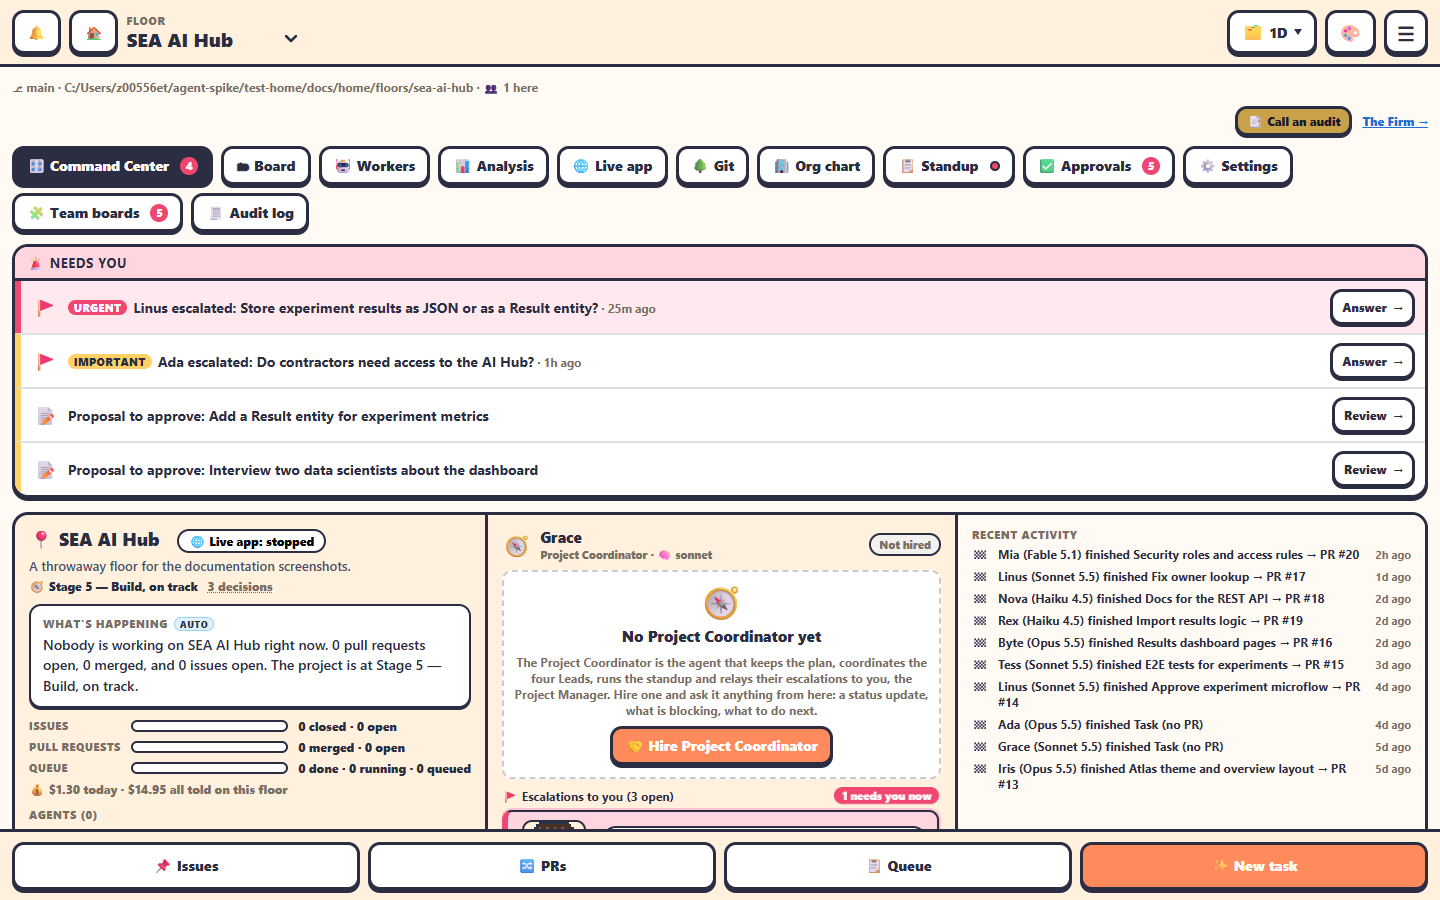
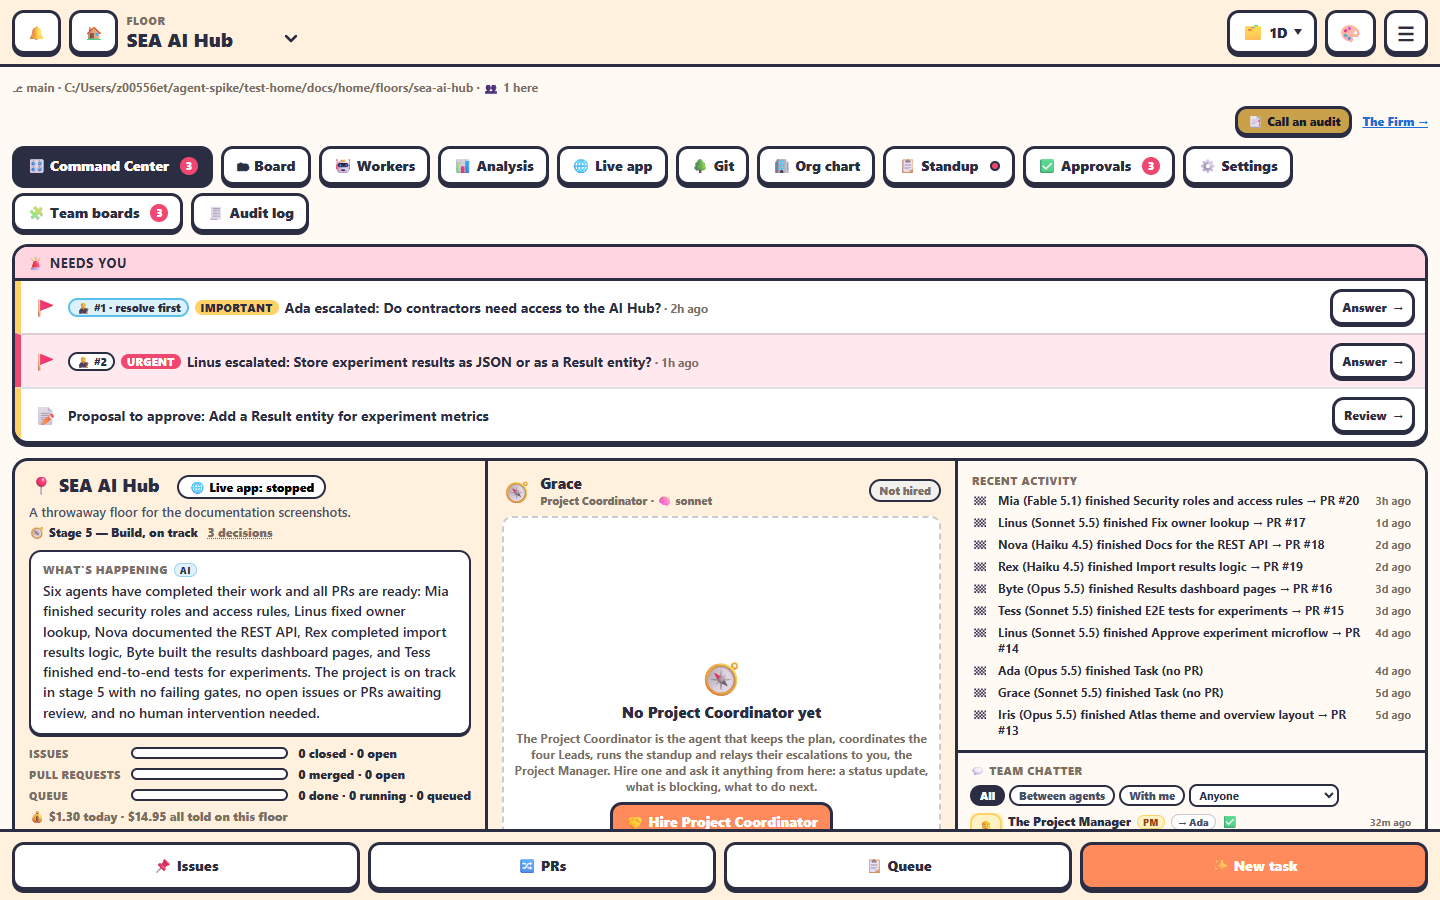
Docs: Team chatter documented; CHANGELOG lists the docs site; fresh Command Center pictures
- Command Center: the 💬 Team chatter thread (what shows up, filters, live, kept per floor),
  team pages' short version, /api/chatter, chatter/ in data locations, glossary, tour and FAQ
- no longer "coming": only the Clean themes are still upcoming
- CHANGELOG.md Unreleased: 📚 Documentation at /docs (the Release notes page is this file)
- command-center.png and escalations.png retaken on a test office: chatter panel, Jeff's chips
- READMEs mention Team chatter

Changed region(s): [[0.0, 0.4667, 1.0, 0.9333], [0.0, 0.3111, 0.5, 0.4356]]

diff --git a/README.html b/README.html
@@ -129,7 +129,7 @@
     <div class="chips">
       <span class="chip">🏢 Projects = floors</span><span class="chip">🧭 A team per project</span><span class="chip">🛠 Mendix via mxcli</span>
       <span class="chip">✅ CI on every PR</span><span class="chip">🌐 Live app</span><span class="chip">🎛 Command Center</span>
-      <span class="chip">🧑⚖ Jeff · Router</span><span class="chip">🏛 The Firm</span><span class="chip">🧾 Audit log</span>
+      <span class="chip">🧑⚖ Jeff · Router</span><span class="chip">🏛 The Firm</span><span class="chip">🧾 Audit log</span><span class="chip">💬 Team chatter</span>
     </div>
     <div class="hero-links">
       <a href="http://127.0.0.1:4600/docs">📚 Full documentation at /docs</a>
@@ -418,7 +418,7 @@
   <h3>Inside a project</h3>
   <div class="tablewrap"><table>
     <tr><th style="width:190px">Tab</th><th>What it's for</th></tr>
-    <tr><td><b>🎛 Command Center</b> <small style="color:var(--muted)">default</small></td><td><b>🚨 Needs you</b> (everything blocked on you, one button each) · the 🧰 Project setup panel (stages P–4, ✋ gates) · project summary and "What's happening" · the <b>Project Coordinator console</b> (live terminal, prompt box, quick chips) · <b>🚩 Escalations to you</b>: the agent's portrait and speech bubble, Jeff's <i>#1 · resolve first</i> chip, Reply / Approve / Reject · The Firm strip.</td></tr>
+    <tr><td><b>🎛 Command Center</b> <small style="color:var(--muted)">default</small></td><td><b>🚨 Needs you</b> (everything blocked on you, one button each) · the 🧰 Project setup panel (stages P–4, ✋ gates) · project summary and "What's happening" · the <b>Project Coordinator console</b> (live terminal, prompt box, quick chips) · <b>🚩 Escalations to you</b>: the agent's portrait and speech bubble, Jeff's <i>#1 · resolve first</i> chip, Reply / Approve / Reject · <b>💬 Team chatter</b>: what the agents say to each other, live, filterable (All, Between agents, With me, one person) · The Firm strip.</td></tr>
     <tr><td><b>🗂 Board</b></td><td>Just the Kanban, with team filter chips and hover previews (live terminals for agents, scorecard and screenshots for PRs).</td></tr>
     <tr><td><b>🤖 Workers</b></td><td>Every agent on the floor, the ones waiting on you first, each <b>ranked A–F</b> (model benchmark, delivery, autonomy, token efficiency, plus specialist duties for team roles).</td></tr>
     <tr><td><b>📊 Analysis</b></td><td>Which model does well on which kind of task, with cost, time and quality; Jeff · Router's verdicts against the office's rules.</td></tr>
@@ -449,7 +449,7 @@
   <h2><span class="num">★</span>Gallery</h2>
   <p class="sub">From a throwaway test office. Click a picture to see it full size; every screen is explained in <code>/docs</code>.</p>
   <div class="gallery">
-    <figure><img src="docs/site/images/escalations.png" alt="Escalation cards with the agent's portrait and a speech bubble"><figcaption><span class="tag">Command Center</span><br><b>🚩 Escalations to you</b>: who's asking, in a speech bubble, with the options and a recommendation.</figcaption></figure>
+    <figure><img src="docs/site/images/escalations.png" alt="Escalation cards with the agent's portrait and a speech bubble"><figcaption><span class="tag">Command Center</span><br><b>🚩 Escalations to you</b>: who's asking, in a speech bubble, in Jeff's order (#1 · resolve first).</figcaption></figure>
     <figure><img src="docs/site/images/workers-ranking.png" alt="Workers tab with A to F grades"><figcaption><span class="tag">Workers</span><br><b>🏅 Rankings</b>: every agent graded A–F, with evidence.</figcaption></figure>
     <figure><img src="docs/site/images/git-map.png" alt="Git tab branch railway map"><figcaption><span class="tag">Git</span><br><b>🌳 Branch map</b>: branches, PRs and who's on them.</figcaption></figure>
     <figure><img src="docs/site/images/skills.png" alt="Skills panel of a Lead"><figcaption><span class="tag">Org chart</span><br><b>🧰 Skills</b>: Manage up, Manage down, Craft, each with its gate.</figcaption></figure>
@@ -529,7 +529,6 @@
     <div class="card"><h4><span class="ico">🧩</span>Plan → issues</h4><p>Turn the toolkit's approved build plan into GitHub issues for the team automatically.</p></div>
     <div class="card"><h4><span class="ico">🤝</span>Client portal</h4><p>A restricted Client role: progress, test link and approvals at the toolkit's gates.</p></div>
     <div class="card"><h4><span class="ico">☁</span>Taskforce Lab on AWS</h4><p>The office on a shared Linux server for the Taskforce, with a GitHub App and a live-app proxy.</p></div>
-    <div class="card"><h4><span class="ico">💬</span>Team chatter</h4><p>A feed of what the agents say to each other. Being built.</p></div>
     <div class="card"><h4><span class="ico">🎨</span>Clean themes</h4><p>Clean light and Clean dark, next to Default, Dark and Terminal. Being built.</p></div>
   </div>
 </section>

diff --git a/docs/site/using-the-office/command-center.md b/docs/site/using-the-office/command-center.md
@@ -1,11 +1,11 @@
 ---
 title: Command Center
-description: The default tab of a project - The Firm strip, the Needs you strip, the project setup panel, the project summary, and the Project Coordinator console with escalations.
+description: The default tab of a project - The Firm strip, the Needs you strip, the project setup panel, the project summary, the Project Coordinator console with escalations, and Team chatter.
 weight: 3
 aliases: [/docs/command-center]
 ---
 
-The **🎛 Command Center** is the first tab of every project and the place to keep open. From top to bottom: **The Firm** strip, **Needs you**, the **Project setup** panel (toolkit projects being set up), and the **project summary** with the **Project Coordinator console** in its middle.
+The **🎛 Command Center** is the first tab of every project and the place to keep open. From top to bottom: **The Firm** strip, **Needs you**, the **Project setup** panel (toolkit projects being set up), and the **project summary** with the **Project Coordinator console** in its middle and **Team chatter** beside it.
 
 ![The Command Center](../images/command-center.png)
 
@@ -53,7 +53,19 @@ See [The toolkit](../integrations/toolkit.md).
 - **What's happening**: a short story of the floor, written by Claude Haiku (*AI*) or put together by the office (*auto*).
 - **Risks**: agents waiting on a human (and for how long), blocked or failing things.
 - Progress bars for **issues**, **pull requests** and the **queue**, and **💰 $x today · $y all told on this floor**.
-- **Agents (N)**, and **Recent activity** on the right.
+- **Agents (N)**, and **Recent activity** and **💬 Team chatter** on the right.
+
+## 💬 Team chatter
+
+Beside Recent activity: what the agents say to each other, as a chat thread, newest on top. Each message shows the speaker's portrait, who it was said to (recipient chips) and a speech bubble; click it to open what it's about (the worker, the escalation, the pull request, the standup or the journal entry).
+
+What shows up: escalations and your answers, the office's and Jeff's relays to the Project Coordinator, standups and proposal decisions, review nudges, subagent tasks and the Leads' verdicts, handoff notes and rehires, agents telling or hiring each other, PRs handed over, team journal entries (a line naming a teammate counts as said to them), and The Firm's interview questions and answers. Nothing is made up: only what was really said or written, with tokens redacted and long text clipped.
+
+- Filters: **All**, **Between agents**, **With me** (you, the Project Manager), or **Only one person**.
+- New messages slide in on top without moving your scroll; scrolled down, an **N new** pill takes you back up. **Load older** pages back.
+- Each team's page on [Team boards](team-boards.md) has a short version with that team's messages.
+
+Kept in `<office data>/chatter/<floor>.jsonl`, the newest 1000 per floor.
 
 ## The Project Coordinator console
 

diff --git a/docs/site/faq.md b/docs/site/faq.md
@@ -174,7 +174,7 @@ Its grade drops and it's flagged 📉. Its Lead (or you) can warn it, swap its m
 
 The one with Jeff's **🧑⚖ #1 · resolve first** chip. With **Priority** on (the default), Jeff rates each open escalation on how soon it matters, whether agents are stopped on it and how risky a delay is, and the lists (Escalations to you, Approvals, Needs you) are in his order. Older blockers climb. See [Jeff · Router](automation/jeff-router.md#priority-which-escalation-first).
 
-## The Firm and the audit log
+## Oversight: chatter, the audit log and The Firm
 
 ### What is The Firm?
 
@@ -200,8 +200,12 @@ Only their length, unless an admin ticks **Log prompt text** (then the first 80 
 
 A line of the audit log was edited, removed or moved after it was written. Each line carries the hash of the one before it, so the badge shows where the chain stops matching.
 
+### How do I see what the agents say to each other?
+
+In **💬 Team chatter** on the Command Center, beside Recent activity: escalations, relays, standups, nudges, subagent tasks and reviews, handoffs, PR hand-overs, journal lines and The Firm's interviews. Filter by **Between agents**, **With me** or one person. See [Team chatter](using-the-office/command-center.md#team-chatter).
+
 ## Coming soon
 
 ### What's coming next?
 
-A **team chatter** feed (what the agents say to each other) and **Clean light / Clean dark** themes are being built on other branches. They'll be in the [release notes](release-notes.md) when they land.
+**Clean light / Clean dark** themes are being built on another branch. They'll be in the [release notes](release-notes.md) when they land.

diff --git a/CHANGELOG.md b/CHANGELOG.md
@@ -9,6 +9,11 @@ next one. Each entry says what you'll notice, then anything to know. Commit hash
 Merged into staging, live after the next restart.
 
 ### New
+- **📚 Documentation at `/docs`**: the whole office explained, in the office's themes: a sidebar of
+  sections (Get Started, Concepts, Using the Office, Teams & Agents, Automation, Integrations,
+  Administration, Reference, Troubleshooting, FAQ), search as you type, "On this page", deep links,
+  and these release notes. ☰ → 📖 Documentation, or 📚 Docs on Home. Same sign-in as the office. The
+  pages are Markdown in `docs/site/`; this file is the Release notes page, so there is one copy.
 - **🏛 The Firm** (`/firm`): independent Reviewer Agents on Fable 5.1. An Engagement Partner plus a
   reviewer attached to each project team (Design, Code & Architecture, QA & Test, Requirements &
   Delivery; Security and Cost & Performance optional). Call an audit from a project's Command Center

diff --git a/docs/site/administration/data-locations.md b/docs/site/administration/data-locations.md
@@ -15,6 +15,7 @@ The office keeps its data in a `.agent-office` folder. On the Taskforce laptop t
 | `floors.json` | The list of floors |
 | `roster/<floor>.json` | The team: settings, members, standups, proposals, escalations, spend, subagents |
 | `judge/<floor>.jsonl` | Jeff · Router's verdicts |
+| `chatter/<floor>.jsonl`, `chatter/<floor>.state.json` | [Team chatter](../using-the-office/command-center.md#team-chatter): the newest 1000 messages, and what the sources have already turned into messages |
 | `audit/<floor>.jsonl`, `audit/_office.jsonl`, `audit/archive/` | The [audit log](../using-the-office/audit-log.md): append-only, hash-chained; old lines archived by month |
 | `firm/firm.json`, `firm/engagements/<id>/`, `firm/reports/<id>.json` and `.md` | [The Firm](../using-the-office/the-firm.md): reviewers' models, each audit with its reviewers' isolated folders, delivered reports |
 | `analysis/runs.jsonl` | Analysed runs (the Analysis tab) |

diff --git a/docs/site/reference/api-endpoints.md b/docs/site/reference/api-endpoints.md
@@ -50,6 +50,7 @@ The office's HTTP routes, in the order the server tries them (`src/server/http/r
 | GET | `/api/teams/page` | A team's page |
 | POST | `/api/teams/labels` | Create missing `team:` labels (admin) |
 | GET / POST | `/api/wizard/*` | The new-project wizard: GET `info`, `job`, `setup`, `answers`; POST `recheck`, `start`, `retry`, `edit` (admin) |
+| GET | `/api/chatter` | Team chatter: `?floor=<id>&since=<ms>&limit=<n>&cursor=…&who=<name>` (with `as=<kind>` to tell a person from an agent of the same name) or `&with=agents\|me` |
 | GET | `/api/audit` | The audit log: `?floor=<id>\|all\|_office&since=&until=&actor=human,agent&action=worker.hire,github&q=&limit=&cursor=`, with counts, the chain check and a histogram |
 | GET | `/api/audit/export` | Every matching event as a download, `&format=csv\|jsonl` (admin) |
 | POST | `/api/audit/settings` | `{ promptText }`: log the first 80 characters of prompts, or not (admin) |

diff --git a/docs/site/using-the-office/top-bar-and-menu.md b/docs/site/using-the-office/top-bar-and-menu.md
@@ -32,7 +32,7 @@ Click **🎨** to step through:
 The pick is kept in this browser (`agent-office.color-theme` in local storage). It applies to the 1D view, the 2D view (the office is tinted to match), `/home` and these docs, and follows along in your other open tabs. Without a pick, it follows your system's dark mode.
 
 > [!NOTE]
-> **Clean light** and **Clean dark** themes, and a **team chatter** feed of what the agents say to each other, are being built and will be in the [release notes](../release-notes.md) when they land.
+> **Clean light** and **Clean dark** themes are being built and will be in the [release notes](../release-notes.md) when they land.
 
 ![The Dark theme](../images/theme-dark.png)
 

diff --git a/docs/site/get-started/tour.md b/docs/site/get-started/tour.md
@@ -25,7 +25,7 @@ On the 1D and 2D views, left to right: **🏠** (home), the **floor** picker, th
 
 | Tab | Use it to… |
 |---|---|
-| 🎛 **Command Center** | See what needs you and the project summary, and talk to the Project Coordinator. The default tab. |
+| 🎛 **Command Center** | See what needs you, the project summary and the team chatter, and talk to the Project Coordinator. The default tab. |
 | 🗂 **Board** | Move work along the Kanban, from issue to merged PR. |
 | 🧩 **Team boards** | One board per team, with its Lead, journal and team panels. |
 | 🤖 **Workers** | See every agent, ranked A–F. |

diff --git a/docs/site/using-the-office/team-boards.md b/docs/site/using-the-office/team-boards.md
@@ -13,7 +13,8 @@ Each team page has:
 - the team's name, **mission**, subagents and journal path (`docs/team/<team>.md`);
 - the **Lead's card** from the org chart;
 - **🗂 &lt;Team&gt;'s board**: only that team's cards;
-- **👥 Subagents** with their grades, and **📓 Journal** with the latest entries.
+- **👥 Subagents** with their grades, and **📓 Journal** with the latest entries;
+- **💬 Team chatter**: a short version of the Command Center's [thread](command-center.md#team-chatter), with what this team said and was told.
 
 And panels for what each team cares about:
 

diff --git a/README.md b/README.md
@@ -24,6 +24,7 @@ Around the teams:
 - **🧑⚖ Jeff · Router**, the office's quick judge (Jev, with Claude Haiku as fallback): is an agent waiting on you, which team is a new issue for, and which escalation to resolve first.
 - **🏛 The Firm** (`/firm`): independent Reviewer Agents that audit a project from outside its team and deliver one report to you.
 - **🧾 Audit log**: who did what and when, per floor and office-wide, hash-chained.
+- **💬 Team chatter**: what the agents say to each other, as a live thread on each Command Center.
 
 ## Quick start
 

diff --git a/docs/site/reference/glossary.md b/docs/site/reference/glossary.md
@@ -47,6 +47,7 @@ weight: 9
 | **Skill** | Something a member may do: Manage up, Manage down, Craft. |
 | **Standup** | The daily team report at 09:00 SGT on weekdays. |
 | **Subagent** | A team member running inside a Lead's Claude Code session. |
+| **Team chatter** | The Command Center's thread of what the agents say to each other, from real exchanges only. |
 | **Toolkit** | The mxcli-project-toolkit: stages P to 7, skills, gate checks. |
 | **Track record** | A subagent's runs, verdicts and grade. |
 | **Worker** | A Claude Code session at a desk. |
